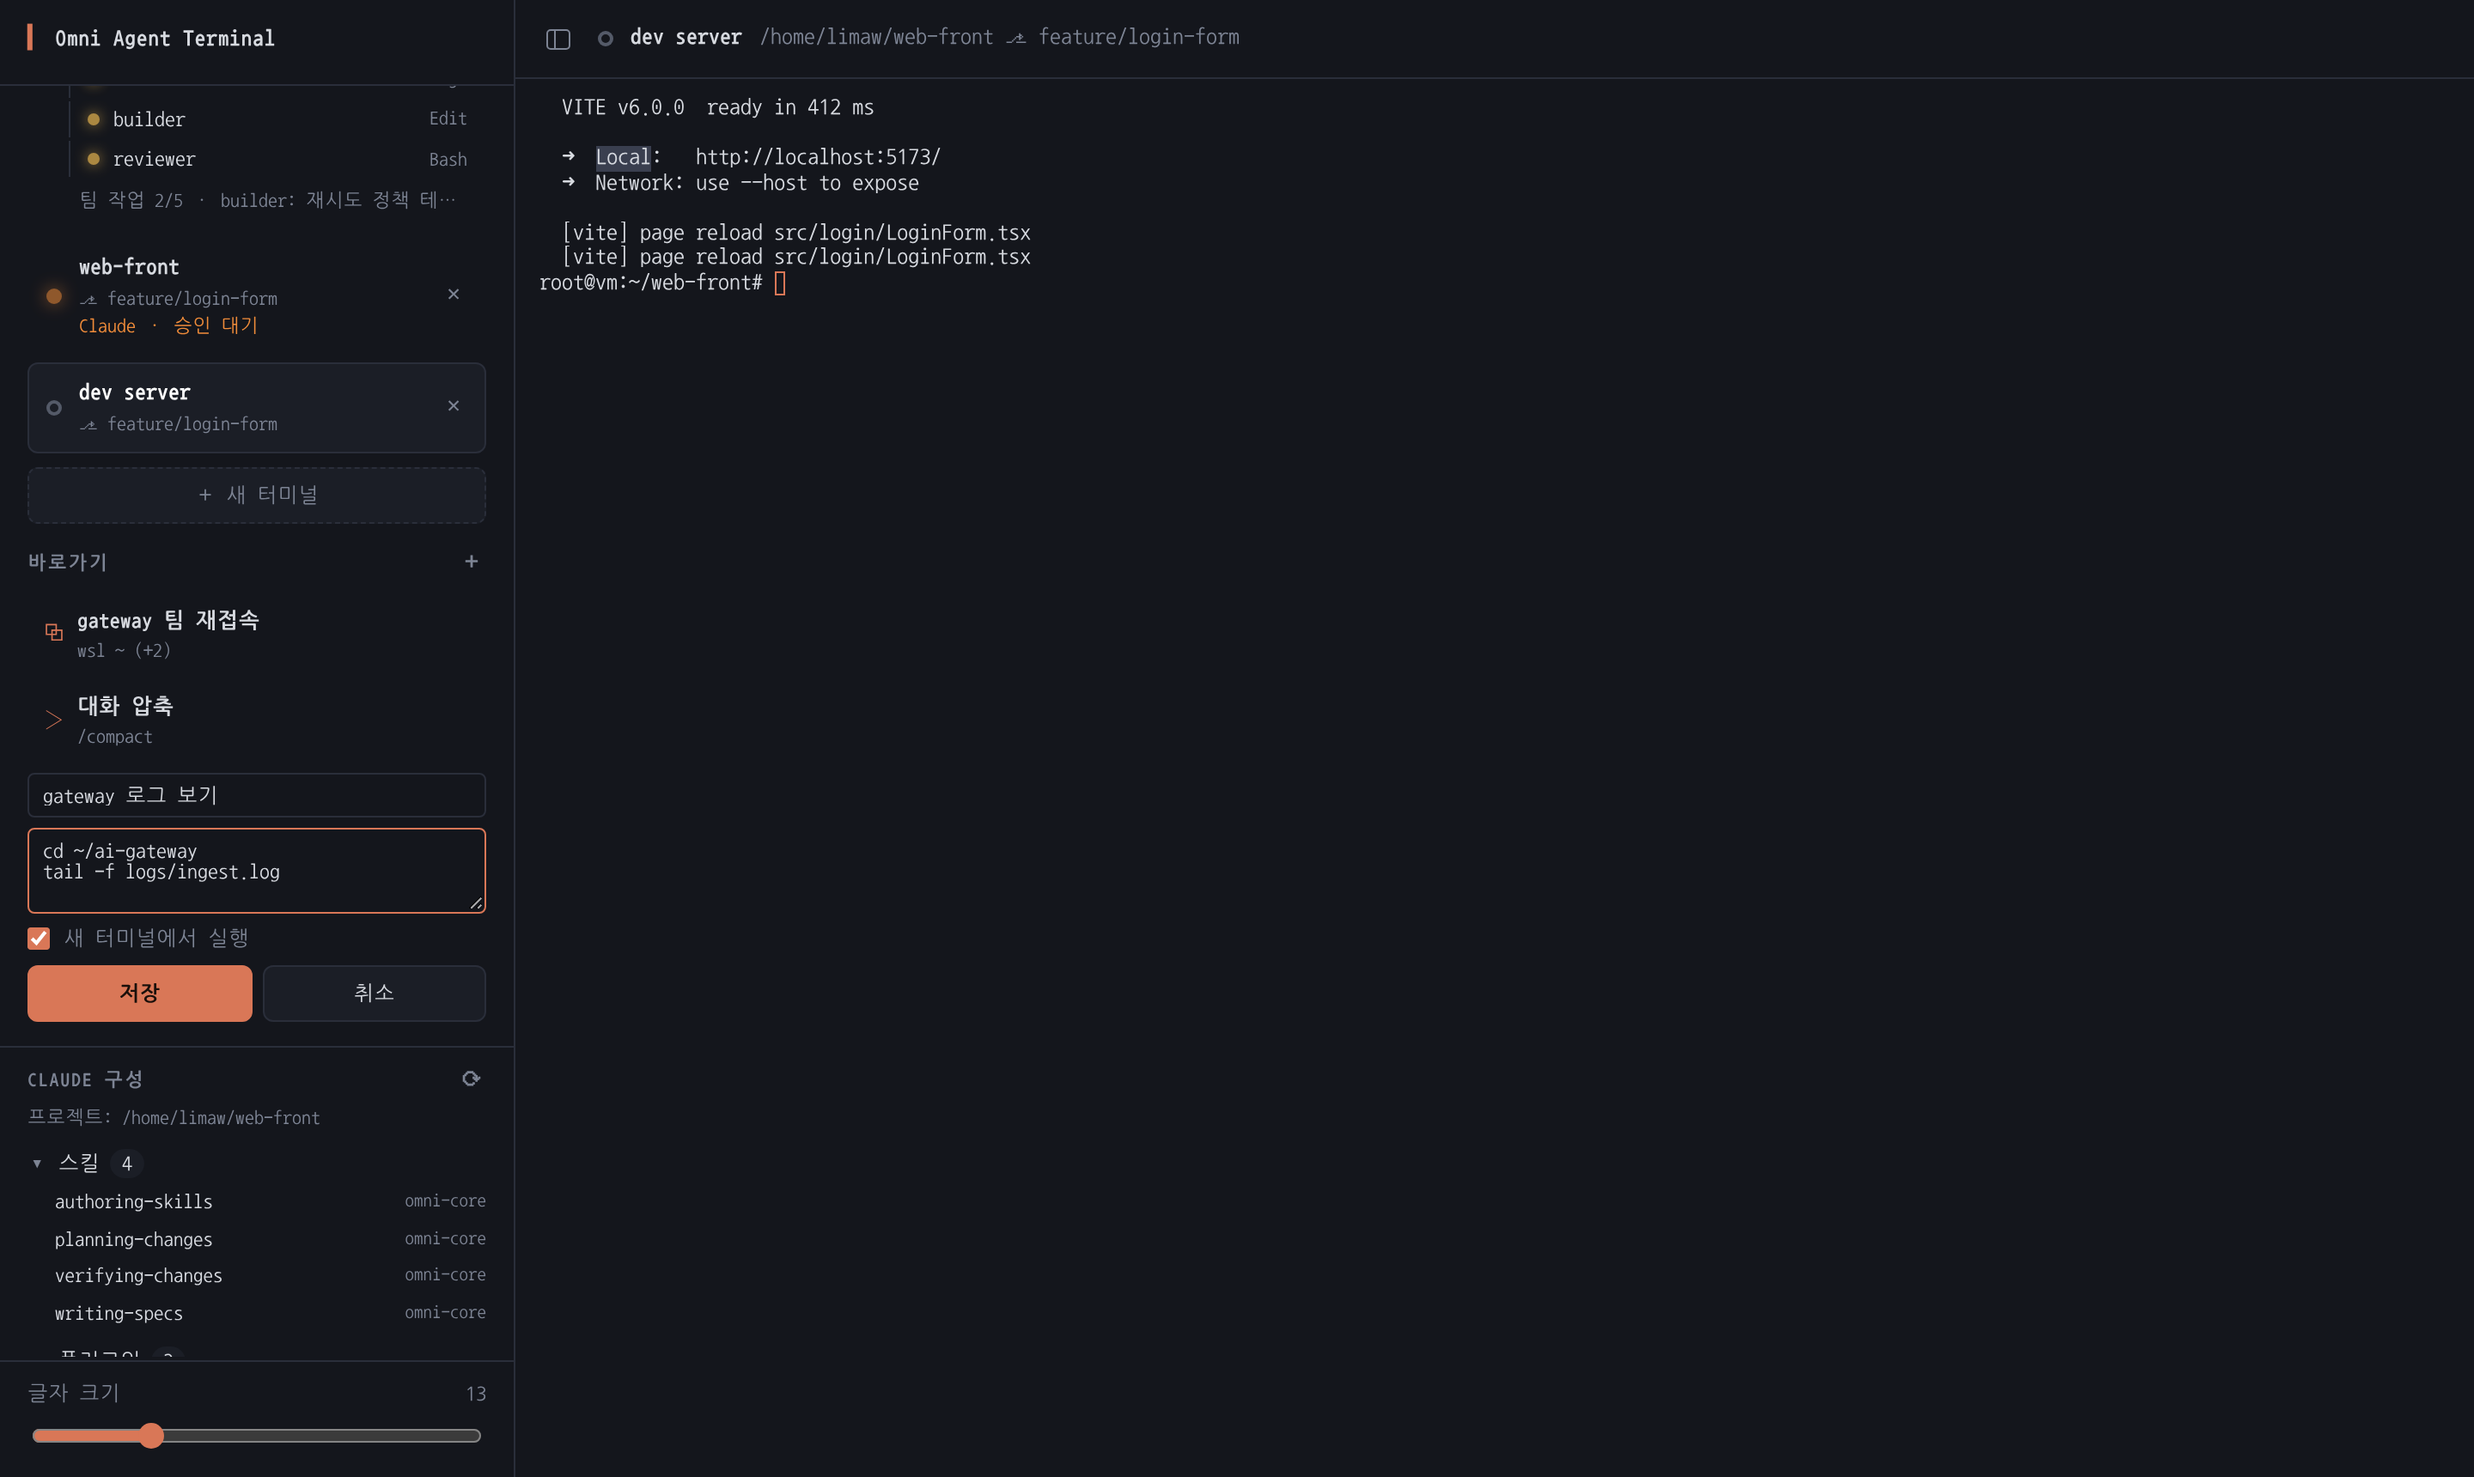
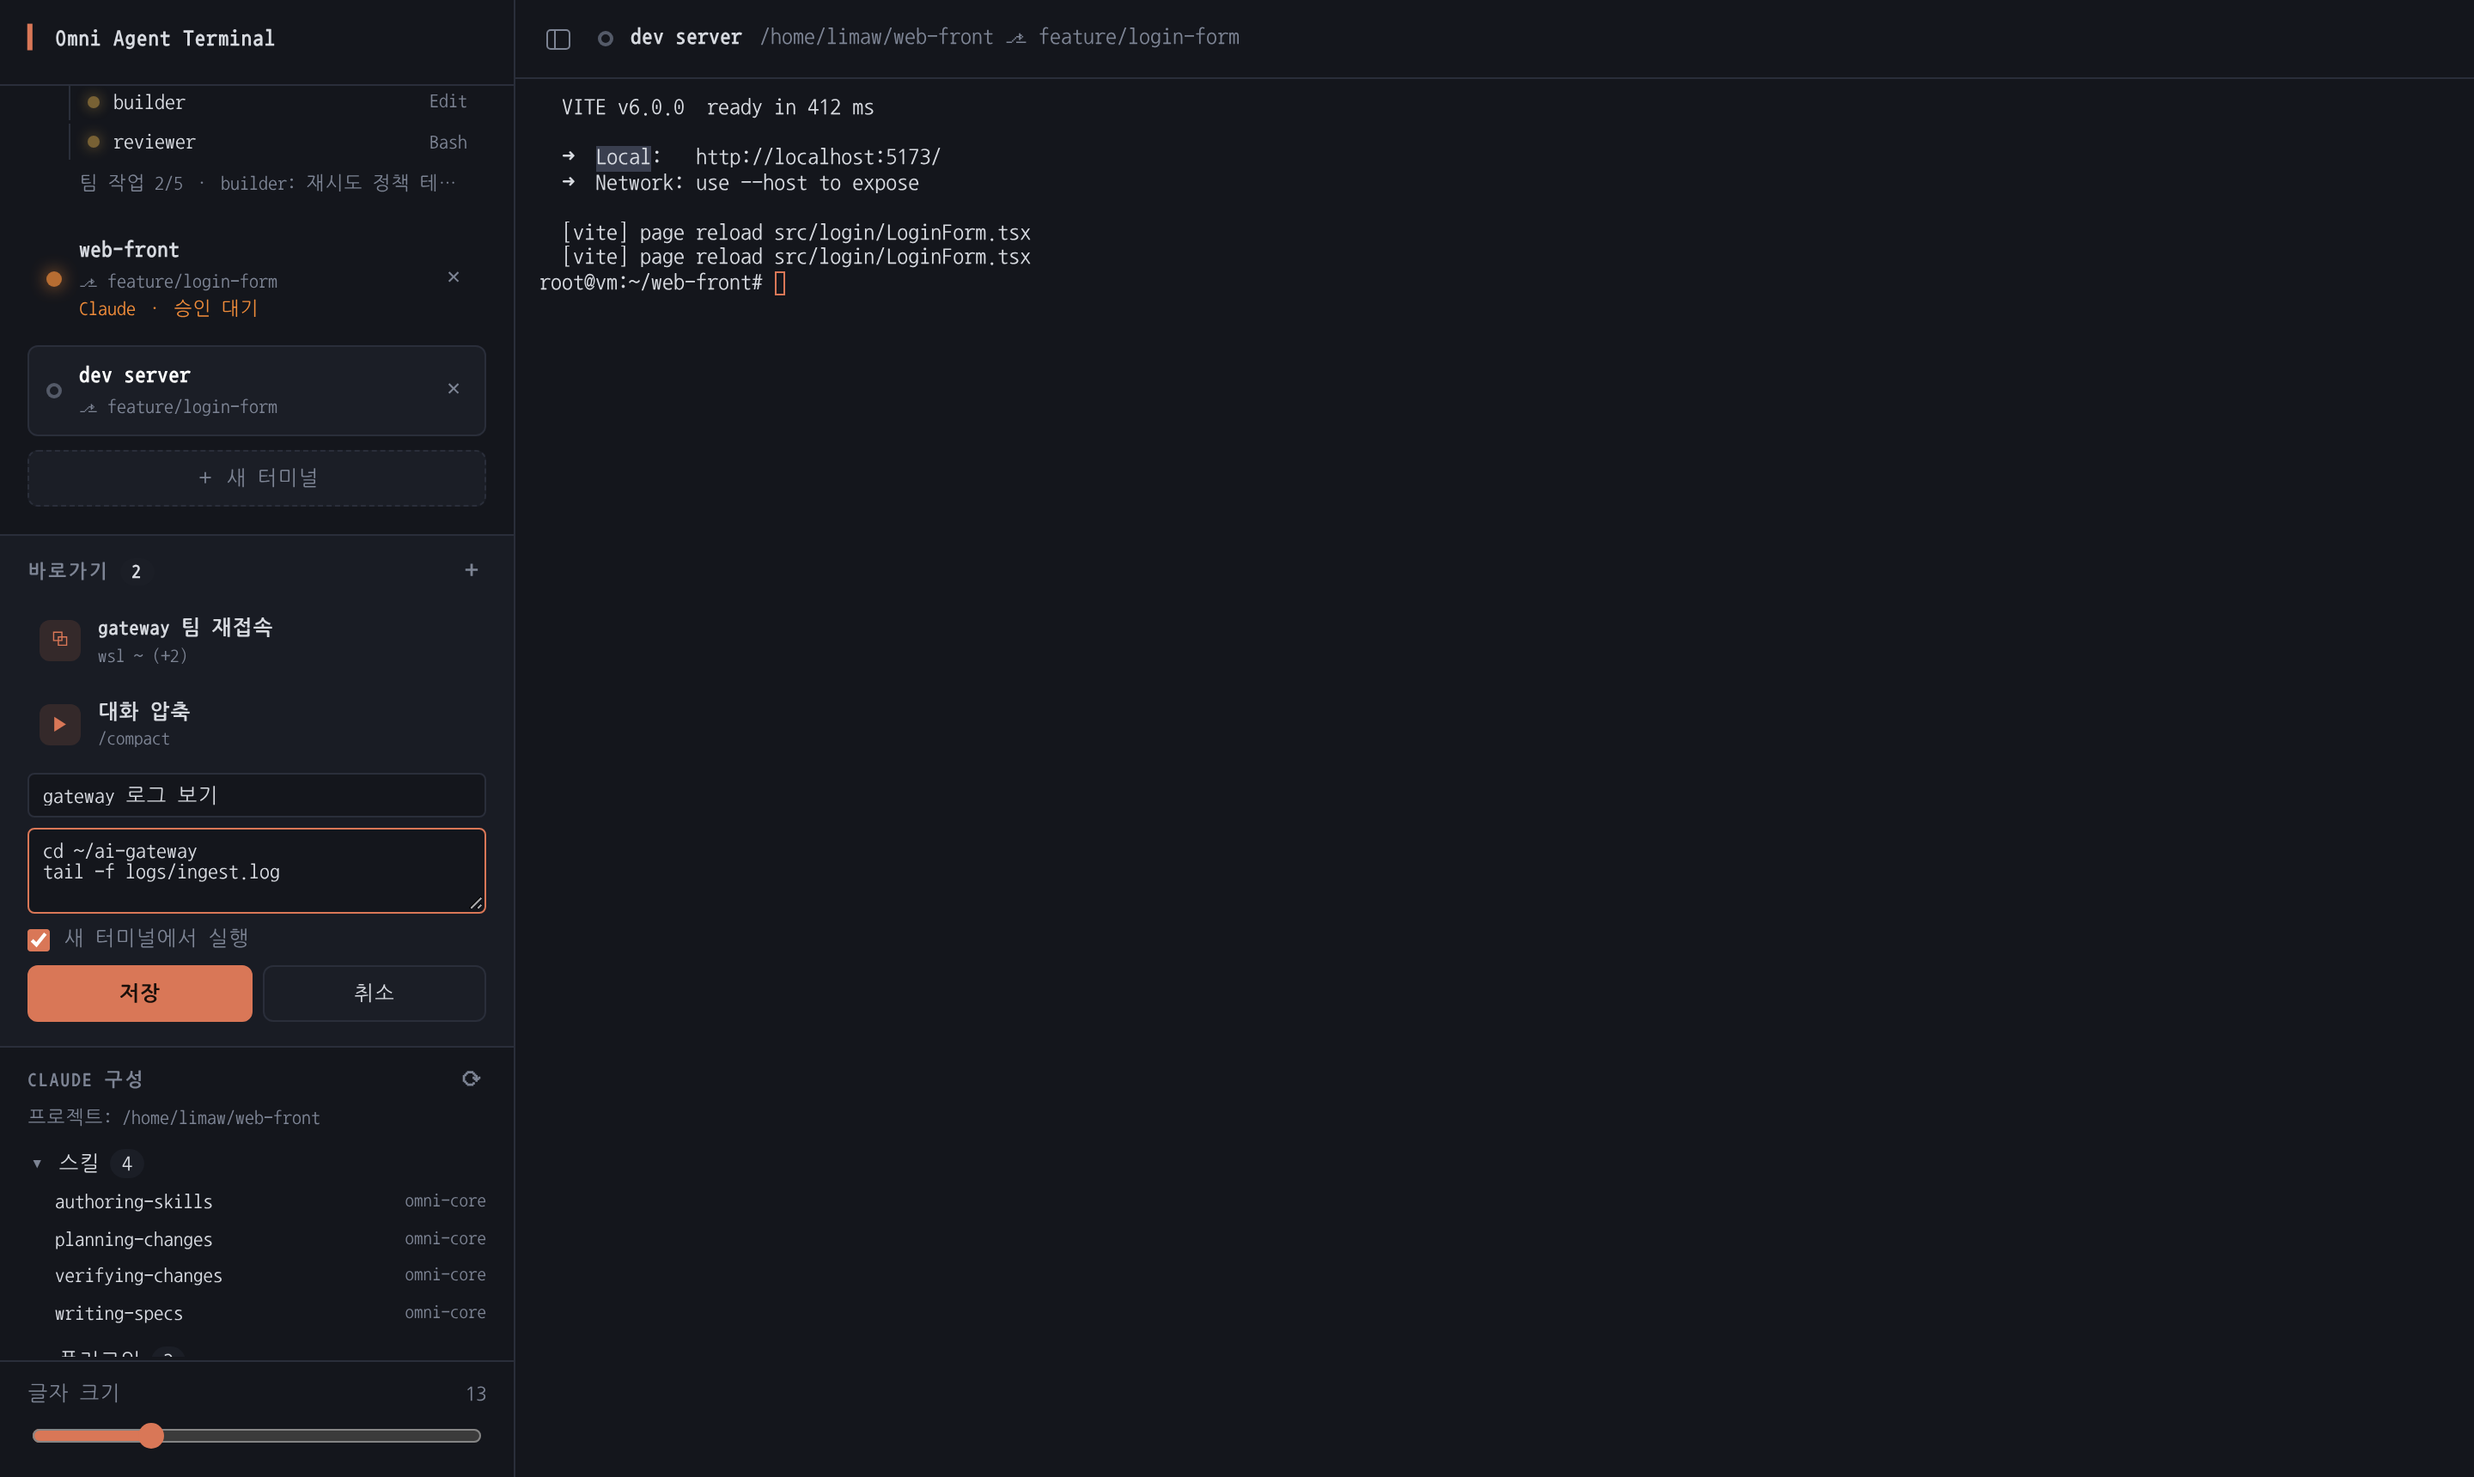
agent-terminal: set shortcuts apart from the terminal list
Shortcuts sat under the terminal cards with no divider and similar rows, so
they read as more terminals. They now form their own band: a full-width
divider, a slightly different background that fills the rest of the panel,
a count in the heading like the other sections, and launcher-style rows with
an accent icon badge (new terminal / current terminal) instead of cards.
Example screens updated.

Claude-Session: https://claude.ai/code/session_01ThbFEw8WRqscoHxtDEMqQC

diff --git a/claude-code/apps/agent-terminal/src/renderer/styles.css b/claude-code/apps/agent-terminal/src/renderer/styles.css
@@ -124,17 +124,28 @@ body.resizing .terminals { pointer-events: none; }
 }
 .icon-btn:hover { color: var(--text); background: var(--panel); border-color: var(--line); }
 .app.collapsed .icon-btn { color: var(--accent); }
-.shortcuts { margin-top: 14px; }
-.shortcuts h2 { display: flex; }
-.shortcut-list { list-style: none; margin: 0; padding: 0; display: grid; grid-template-columns: minmax(0, 1fr); gap: 2px; }
+.shortcuts {
+  /* its own band: full-width divider and a slightly different background, so
+     launchers do not read as more terminals */
+  margin: 16px -16px -14px; padding: 12px 16px 14px;
+  border-top: 1px solid var(--line);
+  background: #191c24;
+}
+.shortcuts h2 { display: flex; align-items: baseline; }
+.shortcut-list { list-style: none; margin: 0; padding: 0; display: grid; grid-template-columns: minmax(0, 1fr); gap: 4px; }
 .shortcut {
-  display: grid; grid-template-columns: auto minmax(0, 1fr) auto auto; align-items: center; gap: 8px;
-  padding: 6px 8px; border-radius: var(--radius); cursor: pointer; border: 1px solid transparent;
+  display: grid; grid-template-columns: auto minmax(0, 1fr) auto auto; align-items: center; gap: 10px;
+  padding: 5px 6px; border-radius: var(--radius); cursor: pointer; border: 1px solid transparent;
 }
 .shortcut:hover, .shortcut:focus-visible { background: var(--panel); border-color: var(--line); outline: none; }
-.shortcut-icon { color: var(--accent); width: 12px; text-align: center; }
-.shortcut-name { font-size: 12.5px; font-weight: 600; }
-.shortcut-cmd { font-size: 11px; color: var(--muted); }
+.shortcut:active .shortcut-icon { transform: scale(.94); }
+.shortcut-icon {
+  display: grid; place-items: center; width: 24px; height: 24px; border-radius: 6px;
+  background: rgba(217, 119, 87, .14); color: var(--accent); font-size: 11px;
+}
+.shortcut:hover .shortcut-icon { background: var(--accent); color: #1a0f0a; }
+.shortcut-name { font-size: 12px; font-weight: 600; }
+.shortcut-cmd { font-size: 10.5px; color: var(--muted); }
 .shortcut-btn {
   visibility: hidden; background: none; border: 0; color: var(--muted);
   font: inherit; font-size: 12px; cursor: pointer; padding: 2px 4px; border-radius: 4px;
@@ -218,7 +229,9 @@ body.resizing .terminals { pointer-events: none; }
 
 /* terminals | Claude config, split vertically */
 .sidebar-split { flex: 1; min-height: 0; display: flex; flex-direction: column; }
-.terminals-panel { flex: 0 1 var(--terminals-h, 45%); min-height: 0; overflow-y: auto; }
+.terminals-panel { flex: 0 1 var(--terminals-h, 45%); min-height: 0; overflow-y: auto; display: flex; flex-direction: column; }
+.terminals-panel > * { flex: none; }
+.terminals-panel > .shortcuts { flex: 1 0 auto; }
 .config-panel { flex: 1 1 0; min-height: 0; overflow-y: auto; }
 /* one side hidden: the other takes the whole height */
 .sidebar-split.top-collapsed .terminals-panel { display: none; }

diff --git a/claude-code/apps/agent-terminal/src/renderer/renderer.js b/claude-code/apps/agent-terminal/src/renderer/renderer.js
@@ -558,6 +558,7 @@ async function runShortcut(sc) {
 
 function renderShortcuts() {
   scEls.empty.hidden = shortcuts.length > 0 || !scEls.form.hidden;
+  $('#shortcut-count').textContent = String(shortcuts.length);
   scEls.list.replaceChildren(...shortcuts.map((sc) => {
     const li = h('li', 'shortcut');
     li.tabIndex = 0;
@@ -569,7 +570,9 @@ function renderShortcuts() {
     edit.title = '편집';
     const del = h('button', 'shortcut-btn', '✕');
     del.title = '삭제';
-    li.append(h('span', 'shortcut-icon', sc.newTerminal ? '⧉' : '›'), meta, edit, del);
+    const icon = h('span', 'shortcut-icon', sc.newTerminal ? '⧉' : '▶');
+    icon.title = sc.newTerminal ? '새 터미널에서 실행' : '현재 터미널에서 실행';
+    li.append(icon, meta, edit, del);
     li.title = `${sc.newTerminal ? '새 터미널에서' : '현재 터미널에서'} 실행:\n${sc.command}`;
     li.addEventListener('click', () => runShortcut(sc));
     li.addEventListener('keydown', (e) => { if (e.key === 'Enter' && e.target === li) runShortcut(sc); });

diff --git a/claude-code/apps/agent-terminal/src/renderer/index.html b/claude-code/apps/agent-terminal/src/renderer/index.html
@@ -26,7 +26,7 @@
           <button id="new-terminal" class="btn new-terminal" title="새 터미널 (Ctrl+Shift+T)">＋ 새 터미널</button>
 
           <div class="shortcuts">
-            <h2>바로가기
+            <h2>바로가기 <span id="shortcut-count" class="count">0</span>
               <button id="shortcut-add" class="mini-btn" title="바로가기 추가" aria-label="바로가기 추가">＋</button>
             </h2>
             <ul id="shortcut-list" class="shortcut-list" aria-label="바로가기"></ul>
